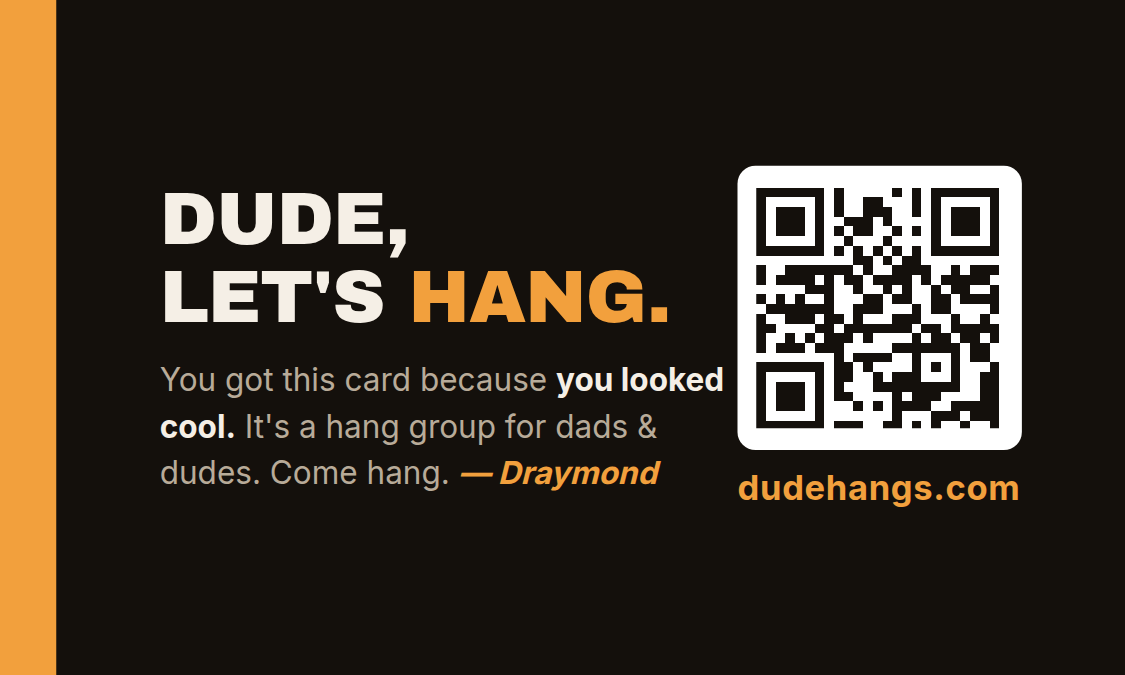
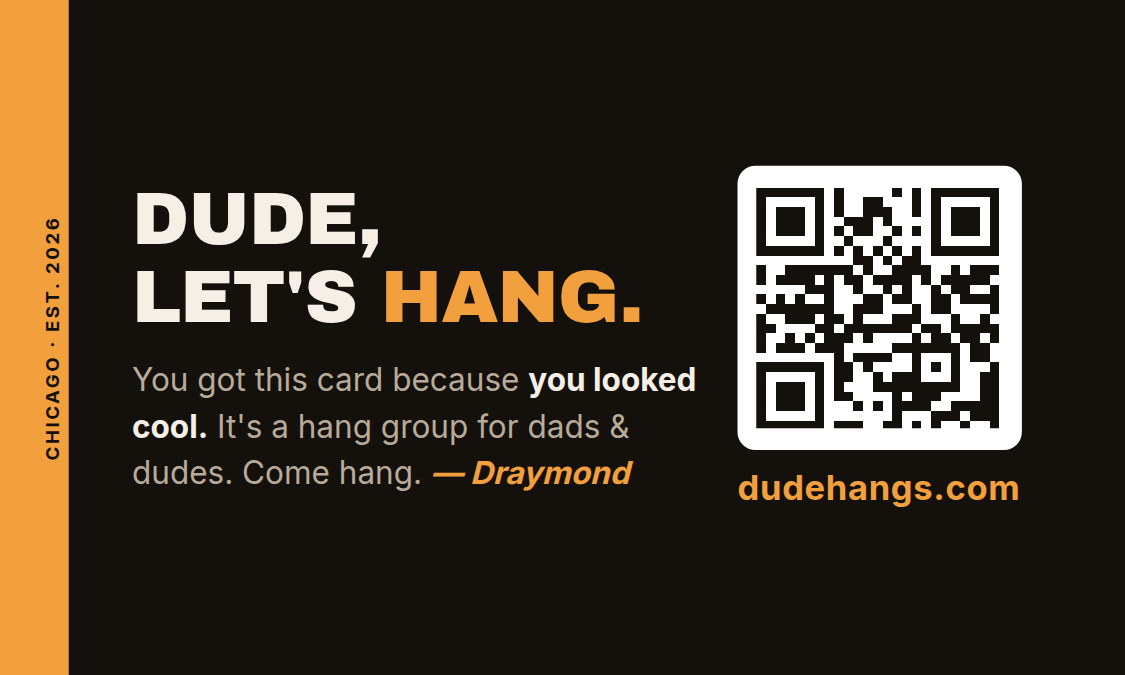
Edge stripe gets sideways 'Chicago · Est. 2026' tag
Claude-Session: https://claude.ai/code/session_01P9n5UKawwvj4epkGoSy427

diff --git a/cards.html b/cards.html
@@ -46,6 +46,7 @@
   }
 
   .card {
+    position: relative;
     width: 3.5in;
     height: 2in;
     background: var(--bg);
@@ -53,11 +54,20 @@
     display: flex;
     align-items: center;
     justify-content: space-between;
-    padding: 0.18in 0.22in;
-    border-left: 0.07in solid var(--accent);
+    padding: 0.18in 0.22in 0.18in 0.32in;
     outline: 1px dashed #999; /* cut guide */
     outline-offset: -0.5px;
     overflow: hidden;
+  }
+  .card .edge {
+    position: absolute; left: 0; top: 0; bottom: 0; width: 0.1in;
+    background: var(--accent);
+    display: flex; align-items: center; justify-content: center;
+  }
+  .card .edge span {
+    writing-mode: vertical-rl; transform: rotate(180deg);
+    font-size: 0.062in; font-weight: 800; letter-spacing: 0.14em;
+    color: var(--bg); text-transform: uppercase; white-space: nowrap;
   }
   .card .left { display: flex; flex-direction: column; justify-content: center; gap: 0.06in; }
   .card h2 {
@@ -118,6 +128,7 @@
 
 <div class="sheet" id="sheet">
   <div class="card">
+    <div class="edge"><span>Chicago · Est. 2026</span></div>
     <div class="left">
       <h2>Dude,<br>let's <span class="pop">hang.</span></h2>
       <p class="why">You got this card because <strong>you looked cool.</strong> It's a hang group for dads &amp; dudes. Come hang. <span class="sig">— Draymond</span></p>
